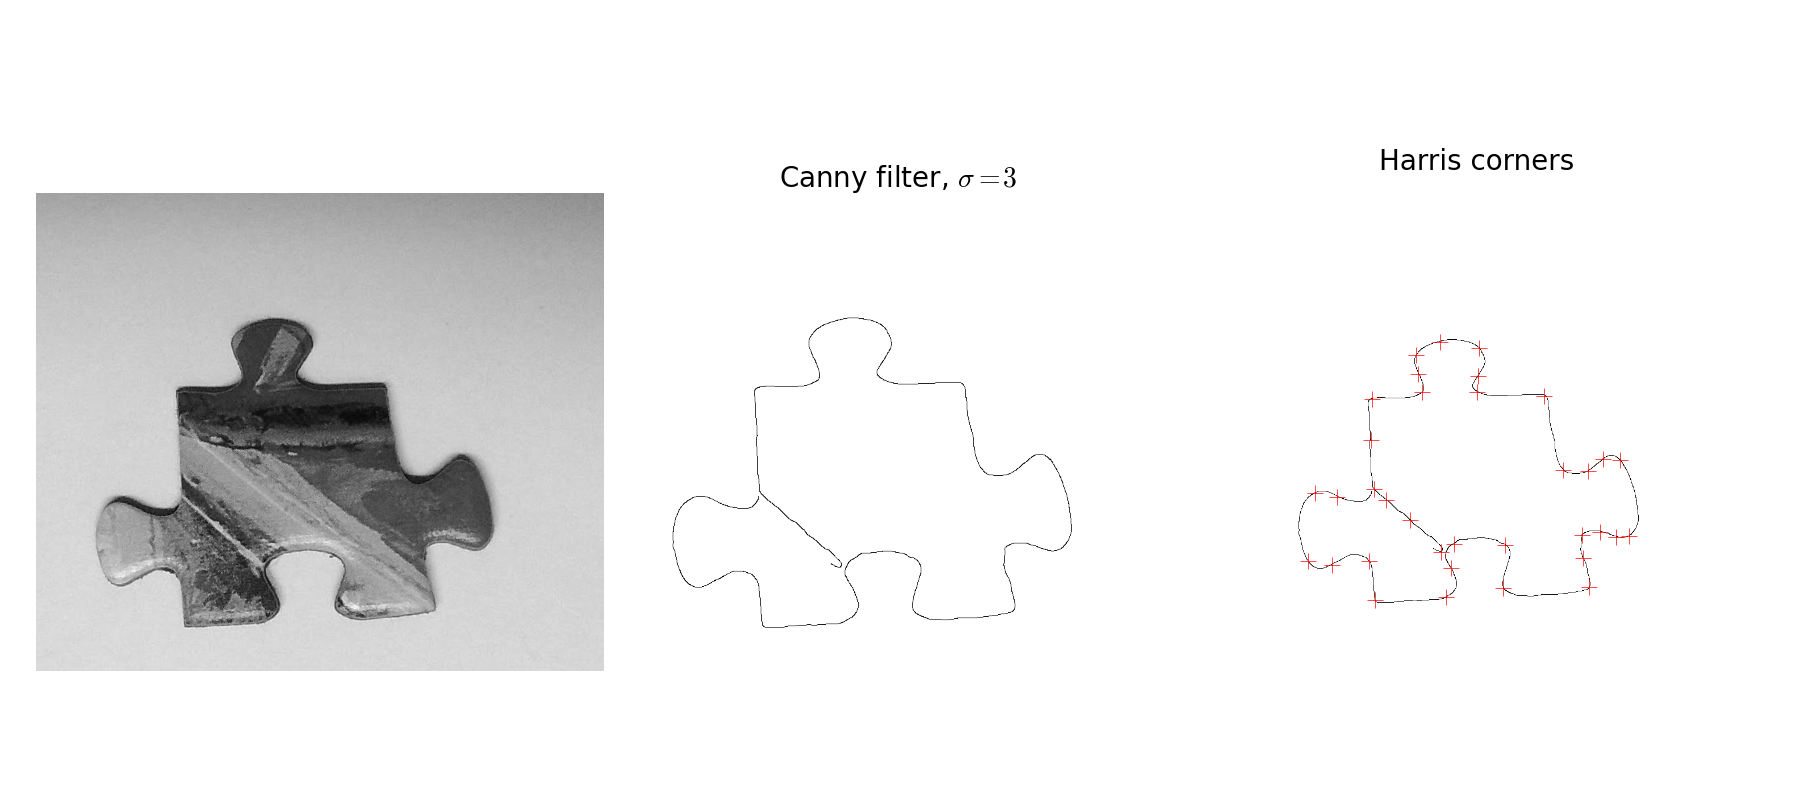
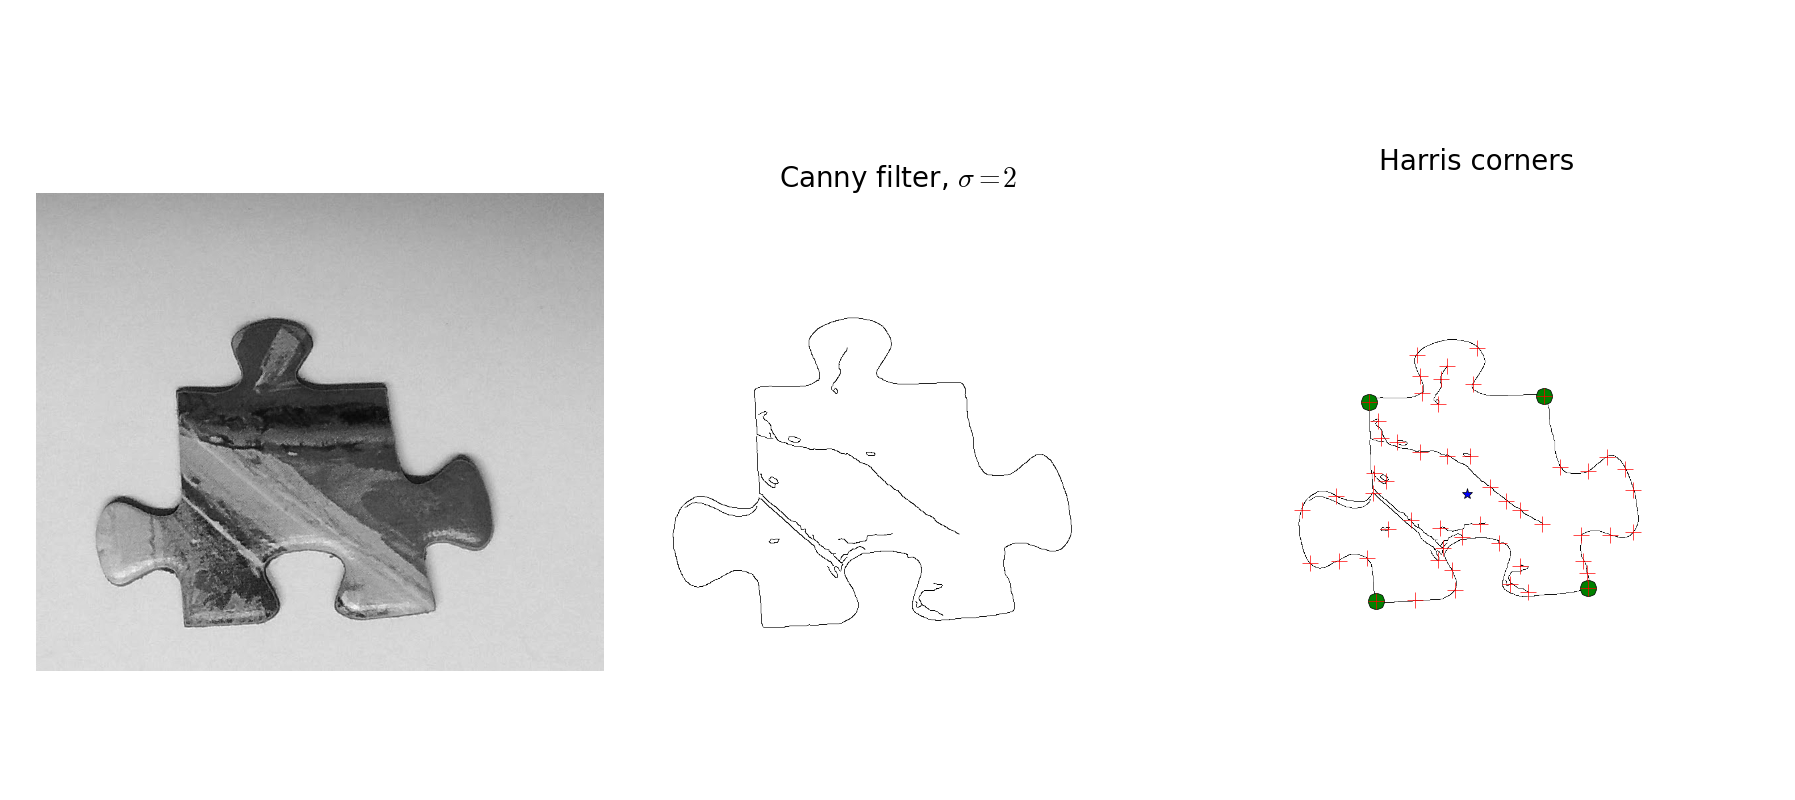
updates quandry notes

diff --git a/content/notes/puzzler.md b/content/notes/puzzler.md
@@ -1,13 +1,13 @@
 +++
 date = "2015-09-28T23:19:45-07:00"
-description = ""
+description = "solvin puzzles with scikit-image"
 menu = ""
 tags = ["python"]
-title = "puzzler"
+title = "quandry"
 
 +++
 
-I'm messing with `[scikit-image](http://scikit-image.org/docs/dev/)`
+I'm messing with [scikit-image](http://scikit-image.org/docs/dev/)
 and trying to solve jigsaw puzzles.
 
 The current pipeline is edge detection via the Canny routine,
@@ -25,20 +25,16 @@ but I found `harris` worked the best while generating the fewest false positives
 I also tried contour detection but found that to not be very helpful.
 [Blob detection](http://scikit-image.org/docs/dev/auto_examples/plot_blob.html)
 might be worth trying.
+The [morphsnakes](https://github.com/pmneila/morphsnakes)
+also generates good concave hulls (outlines of the pieces).
 
-Next I need to eliminate the false corners.
-The four corners should roughly form a rectangle,
-so I think I can look at each candidate corner and use
-[orientations](http://scikit-image.org/docs/dev/api/skimage.feature.html#corner-orientations)
-to find other points separated by 90, -90 and 180 degrees of rotation.
-Those four points will form the candidate corner set.
-Then I can look at area, side relationships and other properties of the candidate sets..
-
-Here are some sample images of the current pipeline:
+Here are some sample images of the current pipeline.
+The blue star is an estimate of the piece's centroid.
+"Candidates corners" are shown as red crosses.
+From these candidates I use some fluffy heuristics to generate the green circles:
+the best guesses as to the true corners of each piece.
 
 ![piece a](/img/corner-detection-piece-a.png)
 ![piece b](/img/corner-detection-piece-b.png)
 
-and the code I'm using atm:
-
-<script src="https://gist.github.com/yosemitebandit/ef5b1342c264937698b1.js"></script>
+The code I'm using is on [github](https://github.com/yosemitebandit/quandry).
